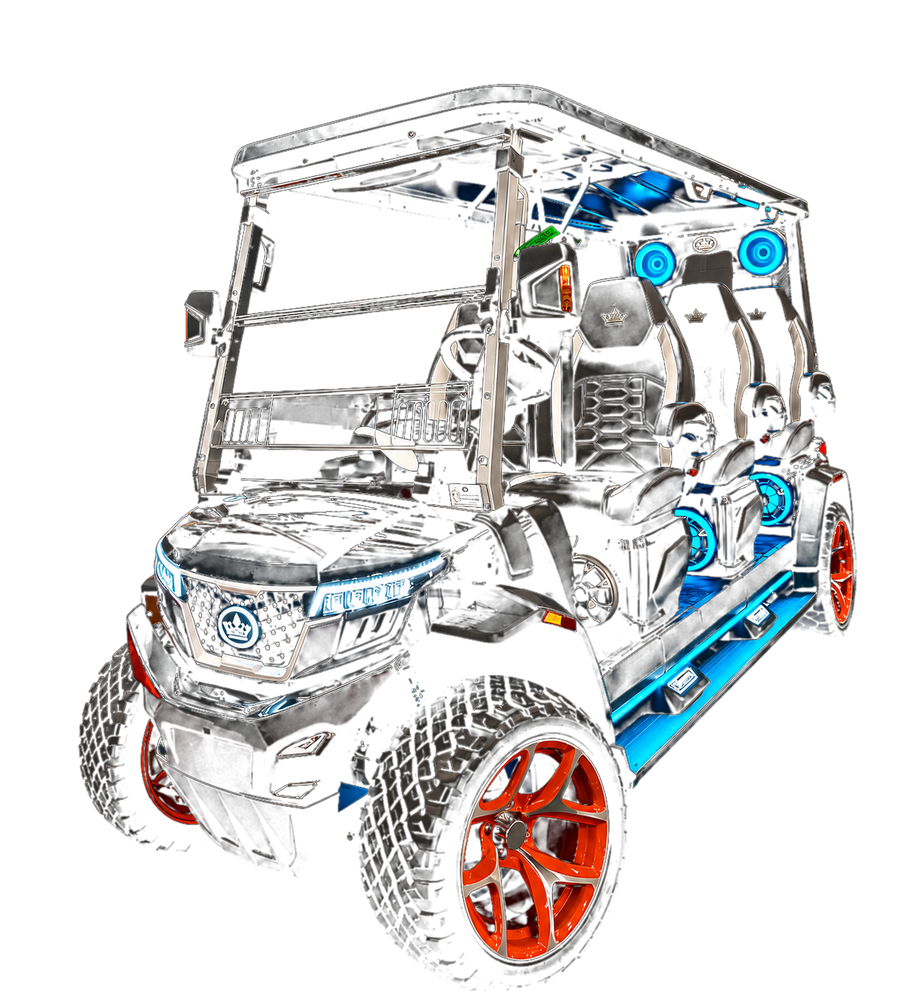
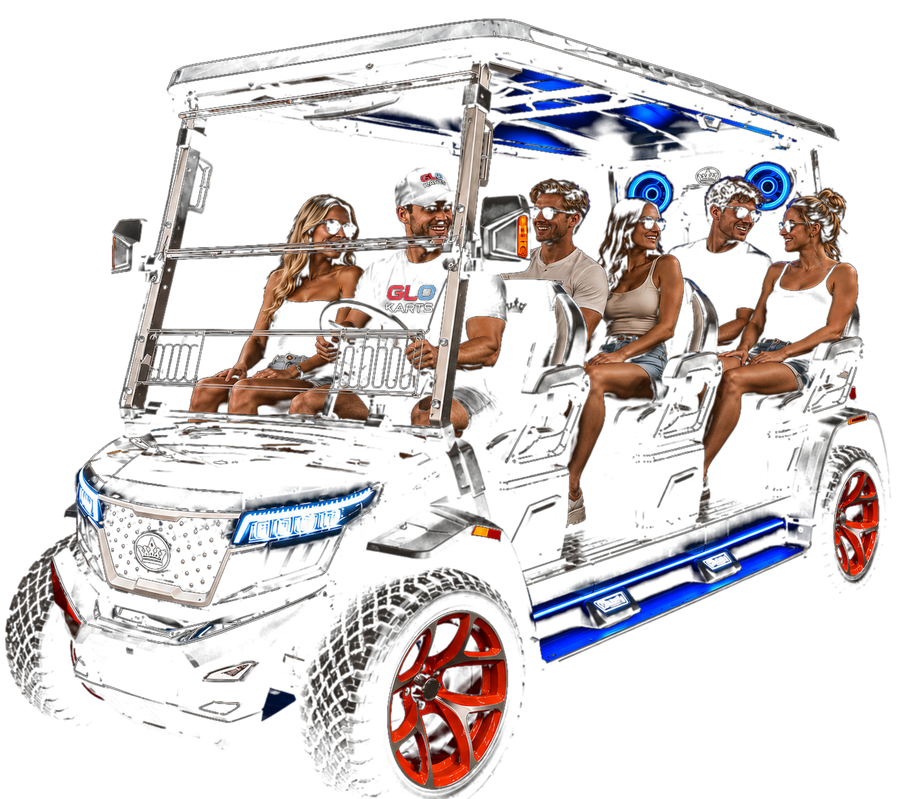
Animate intro cart: spinning wheels, body bounce, party lights
- Replace static studio shot with party photo (6 people on cart, black bg alpha-extracted)
- Canvas-drawn animated wheels with dark tire, red rim, 5 silver spokes, hub cap
- Wheel rotation driven by real cart velocity each frame
- Body bounce: two sine frequencies layered for organic road-bump feel
- Party lighting: radial glow cycles through 6 colors over the people area
- Headlight beam pulses smoothly instead of static
- LED underglow radius-pulses for breathing effect

diff --git a/index.html b/index.html
@@ -591,6 +591,8 @@
     var kartReady = false;
     var skipped   = false;
     var rafId;
+    var wheelAngle = 0;
+    var lastKartX  = null;
 
     var kartImg = new Image();
     kartImg.onload = function () {
@@ -633,41 +635,136 @@
       };
     }
 
-    /* ── Draw kart with headlights + underglow ────────────── */
-    function drawKart(kp) {
-      if (!kartReady) return;
-      var ix = kp.imgX, iy = kp.imgY;
-
-      /* Headlight cone — projects leftward from front bumper */
+    /* ── Spinning wheel ──────────────────────────────────── */
+    function drawAnimatedWheel(cx, cy, r, angle) {
       ctx.save();
-      var hlX    = ix + kartDW * 0.22;   /* front bumper center      */
-      var hlY    = iy + kartDH * 0.64;   /* headlight strip height   */
-      var coneLen = kartDW * 0.52;
+      ctx.translate(cx, cy);
+
+      /* Tire */
+      ctx.beginPath();
+      ctx.arc(0, 0, r, 0, 6.28318);
+      ctx.fillStyle = '#0d0d0d';
+      ctx.fill();
+      ctx.strokeStyle = '#2c2c2c';
+      ctx.lineWidth = 2;
+      ctx.stroke();
+
+      ctx.rotate(angle);
+
+      /* Rim */
+      ctx.beginPath();
+      ctx.arc(0, 0, r * 0.66, 0, 6.28318);
+      ctx.fillStyle = '#9e1520';
+      ctx.fill();
+
+      /* 5 spokes */
+      ctx.lineCap = 'round';
+      for (var s = 0; s < 5; s++) {
+        var sa = s * 1.25664;
+        ctx.strokeStyle = '#8a8a8a';
+        ctx.lineWidth   = r * 0.10;
+        ctx.beginPath();
+        ctx.moveTo(Math.cos(sa) * r * 0.17, Math.sin(sa) * r * 0.17);
+        ctx.lineTo(Math.cos(sa) * r * 0.61, Math.sin(sa) * r * 0.61);
+        ctx.stroke();
+      }
+
+      /* Hub */
+      ctx.beginPath();
+      ctx.arc(0, 0, r * 0.17, 0, 6.28318);
+      ctx.fillStyle = '#5a5a5a';
+      ctx.fill();
+      ctx.beginPath();
+      ctx.arc(0, 0, r * 0.07, 0, 6.28318);
+      ctx.fillStyle = '#c0c0c0';
+      ctx.fill();
+
+      ctx.restore();
+
+      /* Ground contact shadow */
+      ctx.save();
+      var sy = cy + r * 0.90;
+      var sg = ctx.createRadialGradient(cx, sy, 0, cx, sy, r * 1.0);
+      sg.addColorStop(0, 'rgba(0,0,0,0.50)');
+      sg.addColorStop(1, 'rgba(0,0,0,0)');
+      ctx.fillStyle = sg;
+      ctx.beginPath();
+      ctx.ellipse(cx, sy, r * 1.0, r * 0.28, 0, 0, 6.28318);
+      ctx.fill();
+      ctx.restore();
+    }
+
+    /* ── Draw kart with animated wheels, lights + underglow ── */
+    function drawKart(kp, ms) {
+      if (!kartReady) return;
+      var ix = kp.imgX;
+
+      /* Advance wheel angle from cart velocity */
+      if (lastKartX !== null) {
+        var dx = lastKartX - ix;
+        wheelAngle -= dx / (kartDW * 0.070);
+      }
+      lastKartX = ix;
+
+      /* Body bounce — two overlapping frequencies for organic feel */
+      var bounce = Math.sin(ms * 0.017) * 3.0 + Math.sin(ms * 0.031) * 1.3;
+      var iy = kp.imgY + bounce;
+
+      /* Headlight beam — smooth brightness pulse */
+      var beamA = 0.36 + 0.16 * Math.sin(ms * 0.047);
+      ctx.save();
+      var hlX    = ix + kartDW * 0.06;
+      var hlY    = iy + kartDH * 0.72;
+      var coneL  = kartDW * 0.55;
       ctx.beginPath();
       ctx.moveTo(hlX, hlY);
-      ctx.lineTo(hlX - coneLen, hlY - coneLen * 0.38);
-      ctx.lineTo(hlX - coneLen, hlY + coneLen * 0.38);
+      ctx.lineTo(hlX - coneL, hlY - coneL * 0.33);
+      ctx.lineTo(hlX - coneL, hlY + coneL * 0.33);
       ctx.closePath();
-      var beam = ctx.createLinearGradient(hlX, hlY, hlX - coneLen, hlY);
-      beam.addColorStop(0,    'rgba(210,240,255,0.42)');
-      beam.addColorStop(0.40, 'rgba(0,195,255,0.16)');
+      var beam = ctx.createLinearGradient(hlX, hlY, hlX - coneL, hlY);
+      beam.addColorStop(0,    'rgba(220,240,255,' + beamA + ')');
+      beam.addColorStop(0.35, 'rgba(0,195,255,'   + (beamA * 0.35) + ')');
       beam.addColorStop(1,    'rgba(0,195,255,0)');
       ctx.fillStyle = beam;
       ctx.fill();
       ctx.restore();
 
-      /* Kart image — PNG has transparent bg, draws cleanly on dark canvas */
+      /* Kart photo */
       ctx.drawImage(kartMask, ix, iy);
 
-      /* Blue LED underglow on ground (strip at ~79% down image) */
+      /* Animated wheels over the photo wheels */
+      var rFront = kartDW * 0.070;
+      var rRear  = kartDW * 0.060;
+      drawAnimatedWheel(ix + kartDW * 0.496, iy + kartDH * 0.869, rFront, wheelAngle);
+      drawAnimatedWheel(ix + kartDW * 0.710, iy + kartDH * 0.740, rRear,  wheelAngle);
+
+      /* Party light — color cycles through 6 hues, illuminates people area */
+      var pColors = ['0,220,255','255,60,180','255,200,0','0,255,120','180,0,255','255,80,80'];
+      var pIdx    = Math.floor(ms / 200) % 6;
+      var pAlpha  = 0.07 + 0.05 * Math.abs(Math.sin(ms * 0.041));
+      var pX      = ix + kartDW * (0.30 + 0.04 * Math.sin(ms * 0.007));
+      var pY      = iy + kartDH * 0.33;
+      var pR      = kartDW * 0.30;
+      ctx.save();
+      var pg = ctx.createRadialGradient(pX, pY, 0, pX, pY, pR);
+      pg.addColorStop(0,   'rgba(' + pColors[pIdx] + ',' + pAlpha + ')');
+      pg.addColorStop(0.5, 'rgba(' + pColors[pIdx] + ',' + (pAlpha * 0.35) + ')');
+      pg.addColorStop(1,   'rgba(' + pColors[pIdx] + ',0)');
+      ctx.fillStyle = pg;
+      ctx.fillRect(pX - pR, pY - pR, pR * 2, pR * 2);
+      ctx.restore();
+
+      /* Blue LED underglow — pulsing */
+      var ugP = 0.52 + 0.13 * Math.sin(ms * 0.008);
       var ugX = ix + kartDW * 0.45;
-      var ugY = iy + kartDH * 0.79;
-      var ug  = ctx.createRadialGradient(ugX, ugY, 0, ugX, ugY, kartDW * 0.60);
-      ug.addColorStop(0,    'rgba(0,195,255,0.60)');
-      ug.addColorStop(0.35, 'rgba(0,195,255,0.22)');
+      var ugY = iy + kartDH * 0.92;
+      var ugR = kartDW * 0.56;
+      var ug  = ctx.createRadialGradient(ugX, ugY, 0, ugX, ugY, ugR);
+      ug.addColorStop(0,    'rgba(0,195,255,' + (0.62 * ugP) + ')');
+      ug.addColorStop(0.35, 'rgba(0,195,255,' + (0.24 * ugP) + ')');
       ug.addColorStop(1,    'rgba(0,195,255,0)');
       ctx.fillStyle = ug;
-      ctx.fillRect(ugX - kartDW * 0.60, ugY - 14, kartDW * 1.2, 38);
+      ctx.fillRect(ugX - ugR, ugY - 12, ugR * 2, 28);
     }
 
     /* ── Animation loop ───────────────────────────────────── */
@@ -755,7 +852,7 @@
       ctx.globalAlpha = 1;
 
       /* Draw kart on top of smoke */
-      if (kp) drawKart(kp);
+      if (kp) drawKart(kp, ms);
 
       /* Reveal homepage */
       if (!revStarted && (ms > 1700 || offCnt/particles.length > 0.3)) {
